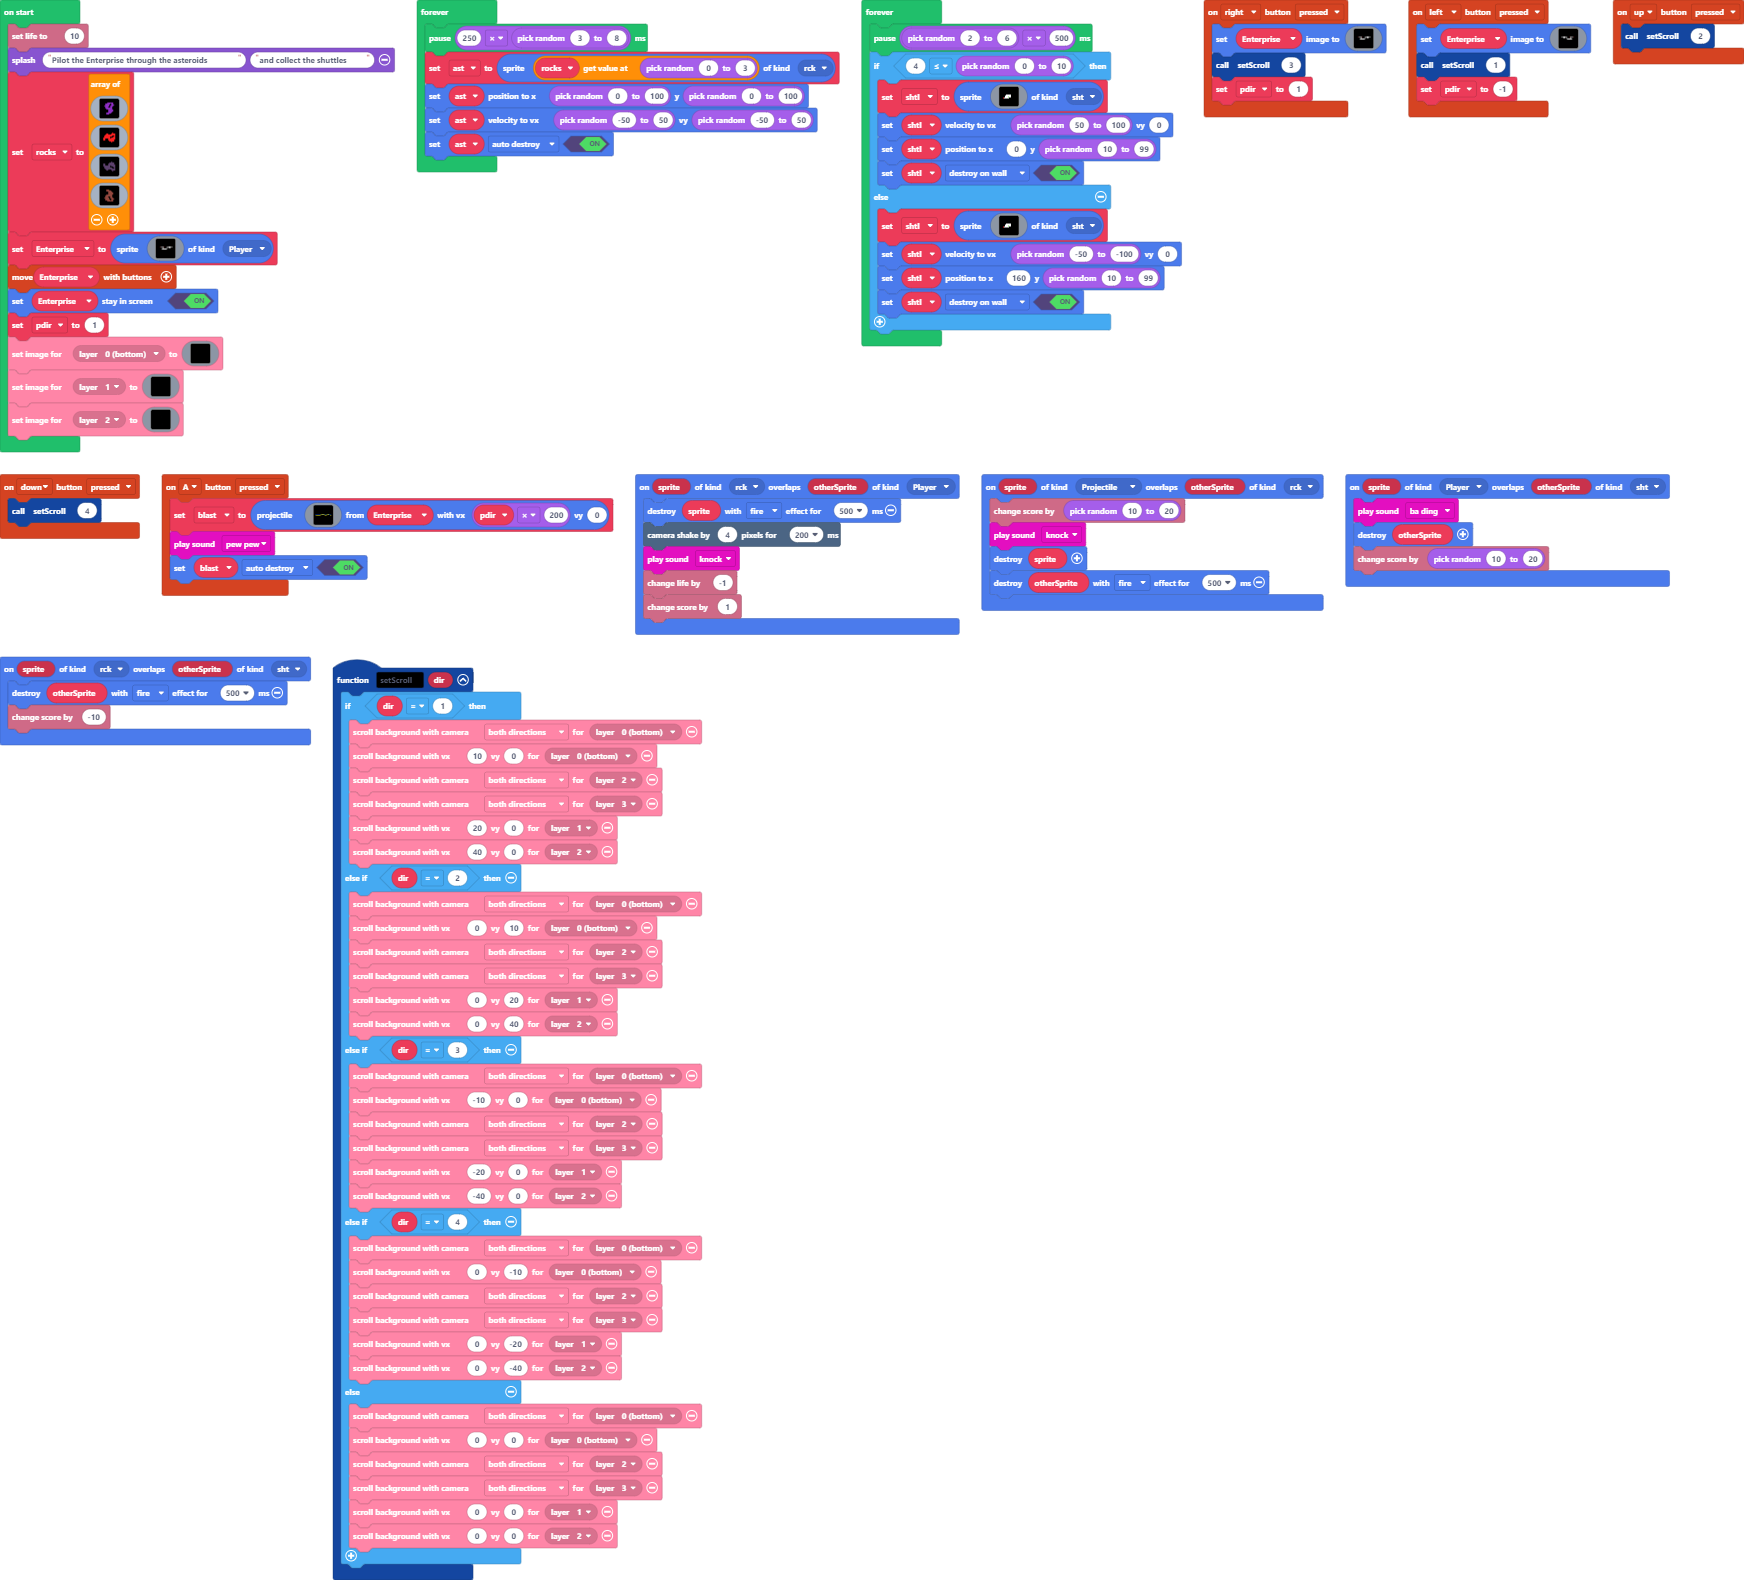
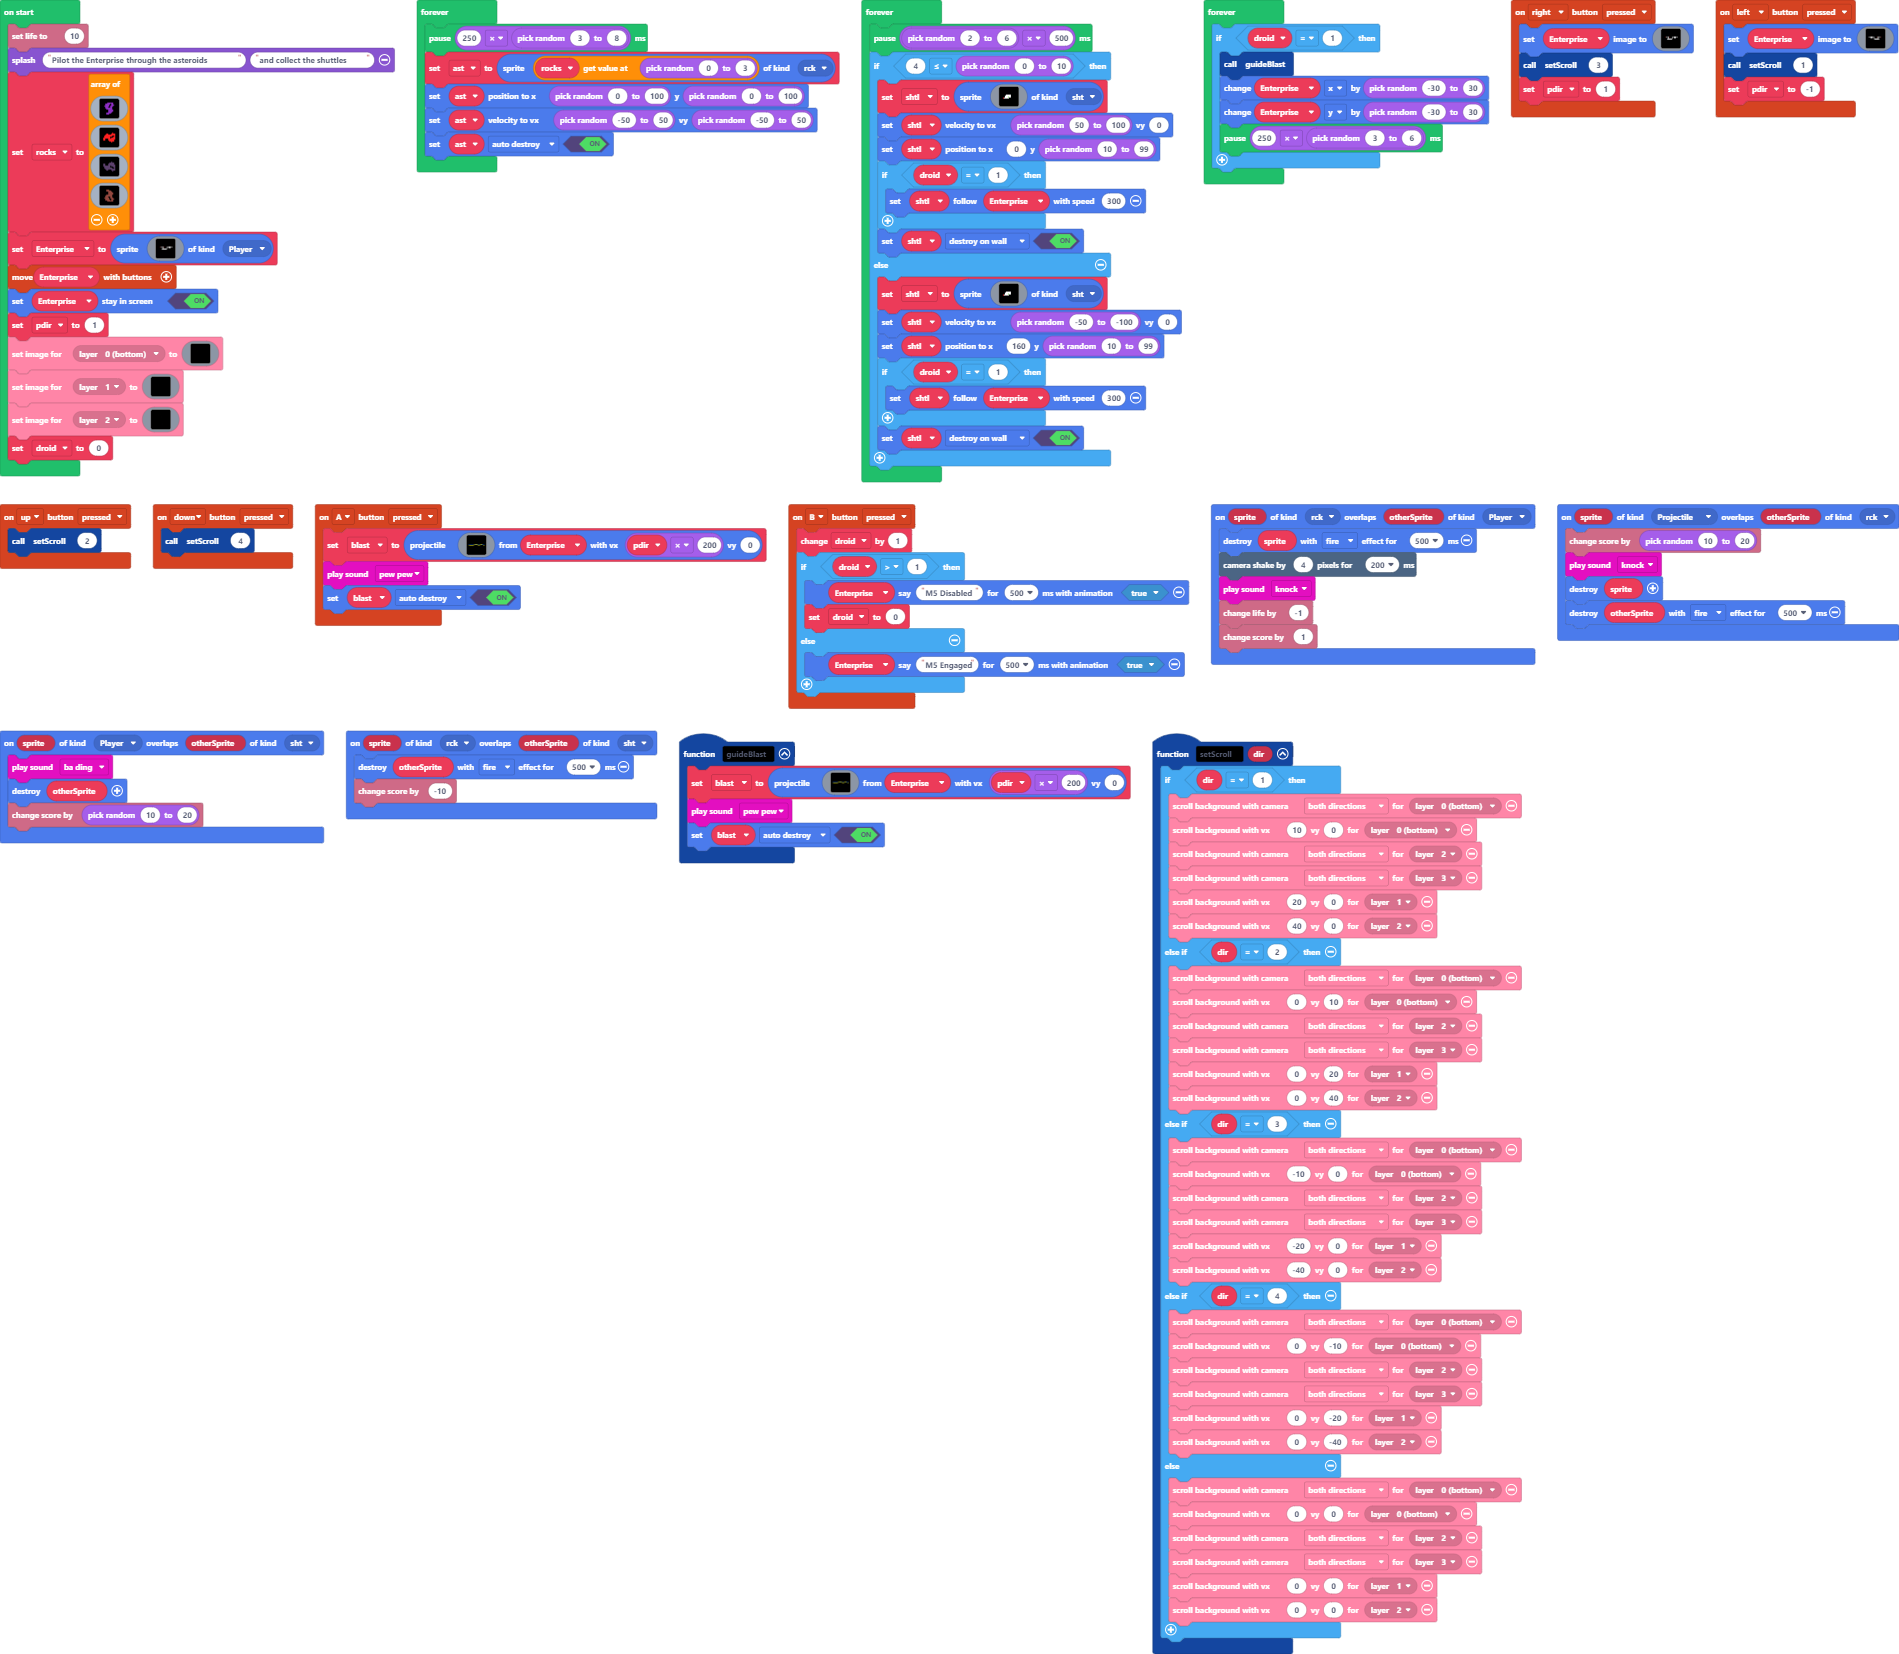
Update main.blocks, main.ts

diff --git a/main.ts b/main.ts
@@ -5,6 +5,15 @@ namespace SpriteKind {
 controller.up.onEvent(ControllerButtonEvent.Pressed, function () {
     setScroll(2)
 })
+controller.B.onEvent(ControllerButtonEvent.Pressed, function () {
+    droid += 1
+    if (droid > 1) {
+        Enterprise.sayText("M5 Disabled", 500, true)
+        droid = 0
+    } else {
+        Enterprise.sayText("M5 Engaged", 500, true)
+    }
+})
 function setScroll (dir: number) {
     if (dir == 1) {
         scroller.scrollBackgroundWithCamera(scroller.CameraScrollMode.BothDirections, scroller.BackgroundLayer.Layer0)
@@ -73,6 +82,11 @@ controller.right.onEvent(ControllerButtonEvent.Pressed, function () {
     setScroll(3)
     pdir = 1
 })
+function guideBlast () {
+    blast = sprites.createProjectileFromSprite(assets.image`phaser`, Enterprise, pdir * 200, 0)
+    music.pewPew.play()
+    blast.setFlag(SpriteFlag.AutoDestroy, true)
+}
 controller.down.onEvent(ControllerButtonEvent.Pressed, function () {
     setScroll(4)
 })
@@ -86,6 +100,7 @@ sprites.onOverlap(SpriteKind.rck, SpriteKind.Player, function (sprite, otherSpri
 let shtl: Sprite = null
 let ast: Sprite = null
 let blast: Sprite = null
+let droid = 0
 let pdir = 0
 let Enterprise: Sprite = null
 info.setLife(10)
@@ -103,6 +118,7 @@ pdir = 1
 scroller.setLayerImage(scroller.BackgroundLayer.Layer0, assets.image`background1`)
 scroller.setLayerImage(scroller.BackgroundLayer.Layer1, assets.image`background2`)
 scroller.setLayerImage(scroller.BackgroundLayer.Layer2, assets.image`background3`)
+droid = 0
 forever(function () {
     pause(250 * randint(3, 8))
     ast = sprites.create(rocks[randint(0, 3)], SpriteKind.rck)
@@ -116,11 +132,25 @@ forever(function () {
         shtl = sprites.create(assets.image`shuttle1`, SpriteKind.sht)
         shtl.setVelocity(randint(50, 100), 0)
         shtl.setPosition(0, randint(10, 99))
+        if (droid == 1) {
+            shtl.follow(Enterprise, 300)
+        }
         shtl.setFlag(SpriteFlag.DestroyOnWall, true)
     } else {
         shtl = sprites.create(assets.image`shuttle1`, SpriteKind.sht)
         shtl.setVelocity(randint(-50, -100), 0)
         shtl.setPosition(160, randint(10, 99))
+        if (droid == 1) {
+            shtl.follow(Enterprise, 300)
+        }
         shtl.setFlag(SpriteFlag.DestroyOnWall, true)
+    }
+})
+forever(function () {
+    if (droid == 1) {
+        guideBlast()
+        Enterprise.x += randint(-30, 30)
+        Enterprise.y += randint(-30, 30)
+        pause(250 * randint(3, 6))
     }
 })
